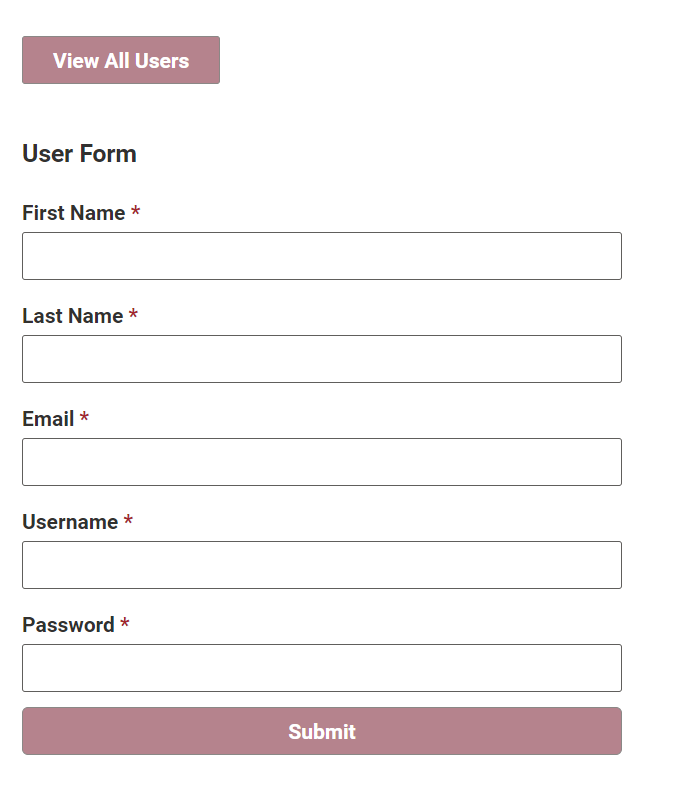
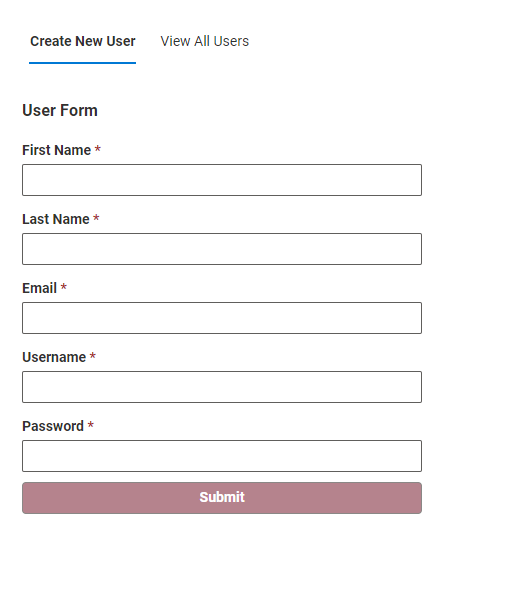
add a basic navigation bar

diff --git a/src/client/App.tsx b/src/client/App.tsx
@@ -1,27 +1,24 @@
-import React, { useState } from 'react'
-import { AdminView } from './AdminView'
-import { NewUserForm } from './NewUserForm'
-import { DefaultButton, Stack } from '@fluentui/react'
-import { switchViewsButtonStyles } from './AppStyles'
+import React, { useState } from 'react';
+import { AdminView } from './AdminView';
+import { NewUserForm } from './NewUserForm';
+import { Pivot, PivotItem } from '@fluentui/react';
+import { containerStyles, switchViewsButtonStyles } from './AppStyles';
 
 export const App: React.FC = () => {
-  const [addUser, setAddUser] = useState(true)
+  const [selectedKey, setSelectedKey] = useState('createNew');
 
-  const handleMenuClick = () => {
-    setAddUser(!addUser)
-  }
+  const handleMenuClick = (item?: PivotItem) => {
+    setSelectedKey(item?.props.itemKey || '');
+  };
 
+  // TODO: update stylying on this page to be more consistent
   return (
-    <div className="App" style={{ padding: '20px' }}>
-      {/* TODO: create a nav bar UI */}
-      <Stack horizontal>
-        <DefaultButton
-          text={addUser ? 'View All Users' : 'Create New User'}
-          onClick={handleMenuClick}
-          styles={switchViewsButtonStyles}
-        />
-      </Stack>
-      {addUser ? <NewUserForm /> : <AdminView />}
+    <div className="App" style={containerStyles}>
+      <Pivot selectedKey={selectedKey} onLinkClick={handleMenuClick} styles={switchViewsButtonStyles}>
+        <PivotItem headerText="Create New User" itemKey="createNew" />
+        <PivotItem headerText="View All Users" itemKey="viewAll" />
+      </Pivot>
+      {selectedKey === 'createNew' ? <NewUserForm /> : <AdminView />}
     </div>
   )
 }

diff --git a/src/client/AdminLogin.tsx b/src/client/AdminLogin.tsx
@@ -1,6 +1,6 @@
 import React, { useState } from 'react'
 import { PrimaryButton, TextField, Stack, MessageBar, MessageBarType } from '@fluentui/react'
-import { buttonStyles, messageBarStyles } from './AdminLoginStyles'
+import { buttonStyles, containerStyles, messageBarStyles, textFieldStyles } from './AdminLoginStyles'
 
 interface IAdminLoginScreenProps {
   onLogin: (username: string, password: string) => void
@@ -33,26 +33,34 @@ export const AdminLoginScreen: React.FC<IAdminLoginScreenProps> = ({ onLogin }) 
     }
   }
 
+
   return (
-    <Stack verticalAlign="center" horizontalAlign="center" tokens={{ childrenGap: 10 }} style={{ height: '100vh' }}>
-      <h3> Log in as Admin to View all Users</h3>
+    <Stack
+      verticalAlign="start"
+      horizontalAlign="start"
+      tokens={{ childrenGap: 10 }}
+      style={{ height: '100vh', padding: '20px' }}
+    >
+      <h3>Log in as Admin to View all Users</h3>
       <TextField
         label="Username"
         value={username}
         onChange={(e, newValue) => setUsername(newValue || '')}
+        styles={textFieldStyles}
       />
       <TextField
         label="Password"
         type="password"
         value={password}
         onChange={(e, newValue) => setPassword(newValue || '')}
+        styles={textFieldStyles}
       />
       {errorMessage && (
         <MessageBar messageBarType={errorType} styles={messageBarStyles}>
           {errorMessage}
         </MessageBar>
       )}
-      <PrimaryButton text="Login" onClick={handleLogin} styles={buttonStyles}/>
+      <PrimaryButton text="Login" onClick={handleLogin} styles={buttonStyles} />
     </Stack>
   )
 }

diff --git a/src/client/AdminLoginStyles.ts b/src/client/AdminLoginStyles.ts
@@ -1,4 +1,19 @@
-import { IMessageBarStyles, IButtonStyles } from '@fluentui/react'
+import { IMessageBarStyles, IButtonStyles, IStackStyles, ITextFieldStyles } from '@fluentui/react'
+
+export const containerStyles: IStackStyles = {
+  root: {
+    height: '100vh',
+    justifyContent: 'left',
+    marginTop: '50px',
+    paddingLeft: '0'
+  }
+}
+
+export const textFieldStyles: Partial<ITextFieldStyles> = {
+  root: {
+    field: { textAlign: 'left', width: '250px' }
+  }
+}
 
 export const messageBarStyles: Partial<IMessageBarStyles> = {
   root: { width: '250px' },
@@ -6,6 +21,7 @@ export const messageBarStyles: Partial<IMessageBarStyles> = {
 
 export const buttonStyles: IButtonStyles = {
   root: {
+    marginTop: '30px',
     backgroundColor: '#B5838D',
     selectors: {
       ':hover': {

diff --git a/src/client/AppStyles.ts b/src/client/AppStyles.ts
@@ -1,9 +1,12 @@
 import { IButtonStyles } from "@fluentui/react"
 
+export const containerStyles = {
+  padding: '20px'
+}
+
 export const switchViewsButtonStyles: IButtonStyles = {
   root: {
     color: '#fff',
-    backgroundColor: '#B5838D',
     outlineColor: '#B5838D',
   },
 }

diff --git a/README.md b/README.md
@@ -9,13 +9,15 @@ Welcome! This is a tiny form app. This project includes:
   - There's basic form validation on the **Create a New User** view
   - A user can be deleted from our database using a **delete** button on the **All Users Table**
 
-Image 1: Screenshot of the **New User Form** view
+**Image 1:** Screenshot of the **New User Form** view
+
 ![A screenshot of the new user form page](image.png)
 
-Image 2: Screenshot of the **View All Users** view
+**Image 2:** Screenshot of the **View All Users** view
+
 ![A screenshot of the view all users page](image-1.png)
 
-Only an admin can view all users. To "log in" as admin, enter the username and password:
+Only an admin can view all users. To log in as admin, enter the username and password:
 
 ```
 username: superuser
@@ -28,13 +30,11 @@ password: secretpassword
 
 In the root folder, run `yarn`.
 
-Open a cli and run `yarn start:webapp`to run the **front-end** of this cpplication (`src/client`).
+Open a cli and run `yarn start:webapp`to run the **front-end** of this cpplication (`src/client`):
+  - Go to `http://localhost:3001/` in your favorite browser to view the frontend.
 
-  * Go to `http://localhost:3001/` in your favorite browser to view the frontend.
-
-Open another cli and run `yarn start:server` to run the **server** of this application (`src/server`).
-
-  * Use `http://localhost:8000/` to make requests against the backend.
+Open another cli and run `yarn start:server` to run the **server** of this application (`src/server`):
+  - Use `http://localhost:8000/` to make requests against the backend.
 
 ## Run App in Production Mode
 
